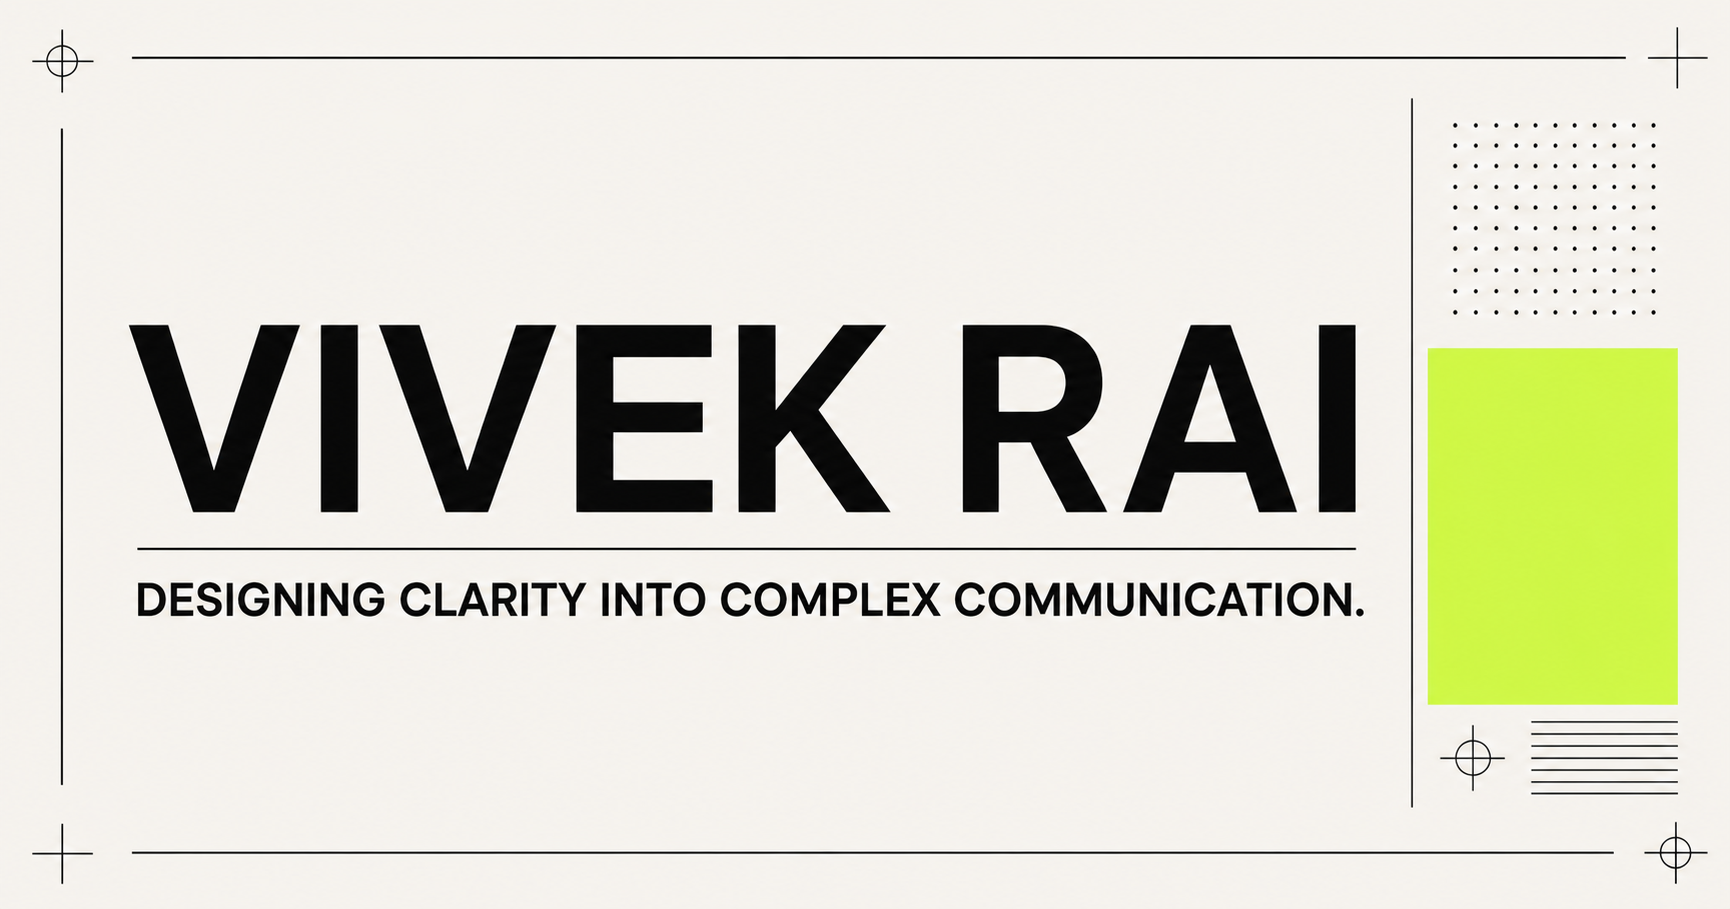
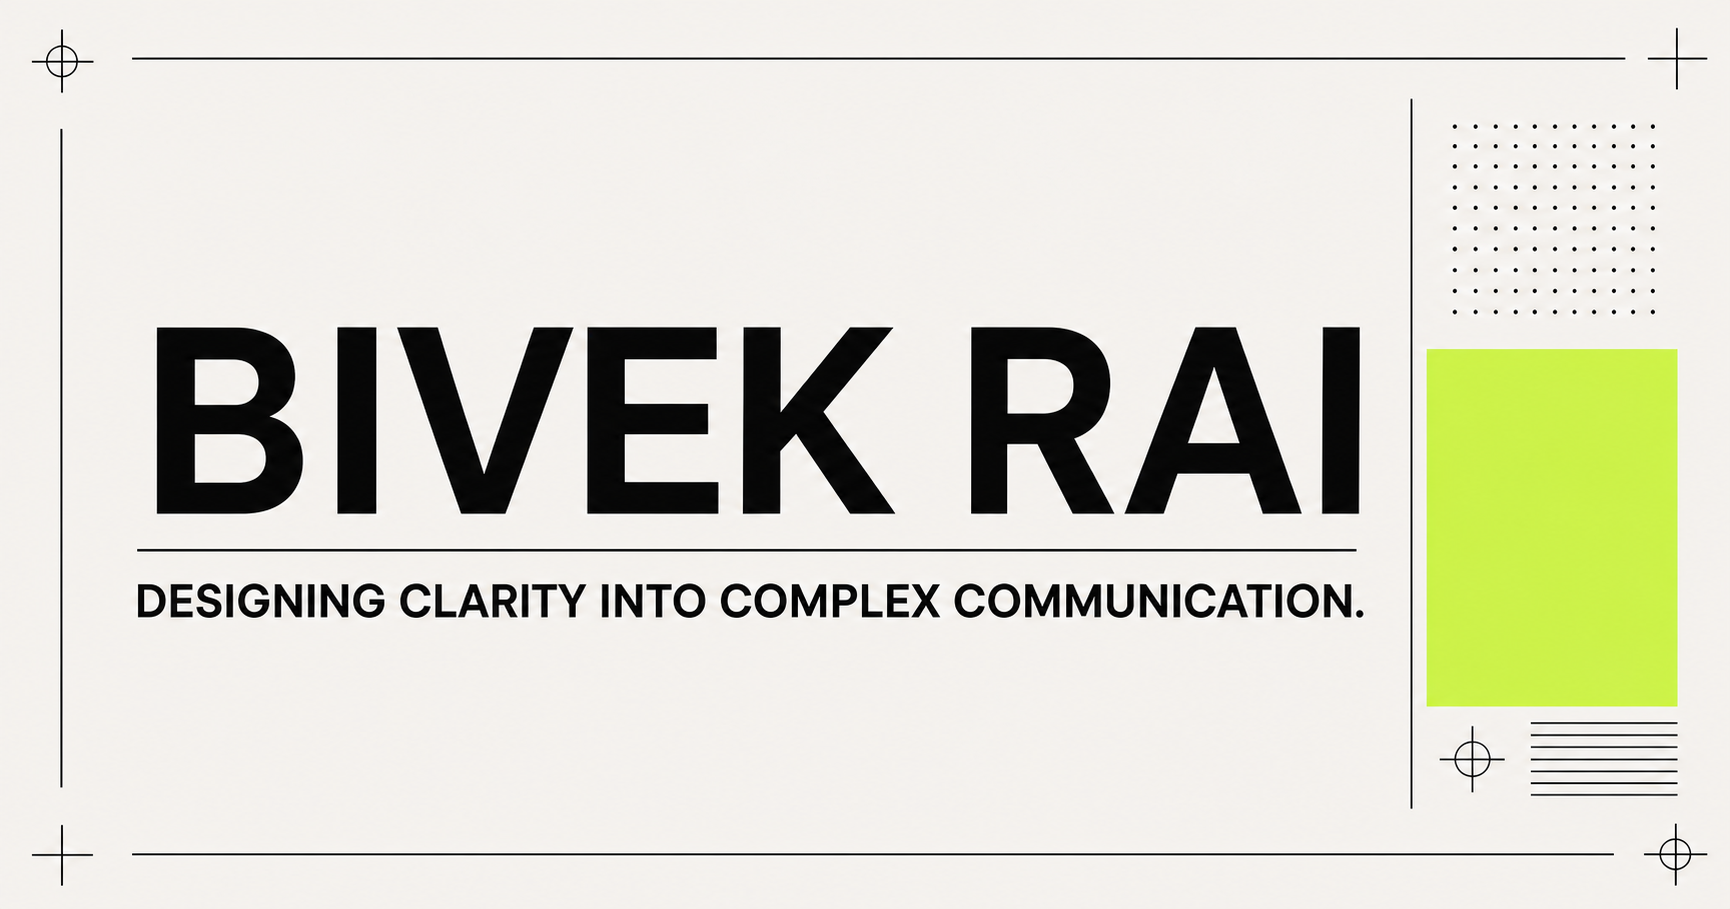
Correct Bivek Rai name throughout portfolio

diff --git a/app/about/page.tsx b/app/about/page.tsx
@@ -3,7 +3,7 @@ import Link from 'next/link';
 import { Footer } from '../components/Footer';
 import { SiteHeader } from '../components/SiteHeader';
 
-export const metadata: Metadata = { title: 'About', description: 'About Vivek Rai, a visual designer with 5+ years of experience in corporate communication and digital design.' };
+export const metadata: Metadata = { title: 'About', description: 'About Bivek Rai, a visual designer with 5+ years of experience in corporate communication and digital design.' };
 
 export default function AboutPage() {
   return <main id="top"><SiteHeader /><section className="about-statement section-pad"><figure className="about-statement__portrait"><img src="/about/bivek-rai.jpeg" alt="Bivek Rai" width={880} height={1280} loading="lazy" decoding="async" /><img className="about-statement__signature" src="/about/signature.png" alt="Bivek Rai signature" width={1920} height={1080} loading="lazy" decoding="async" /></figure><div><h1>About me</h1><p>I’m a Visual Designer with 5+ years of experience, specialising in corporate communication and digital design. My work includes annual reports, sustainability reports, quarterly reports, impact reports, high-end presentations, infographics, branding and marketing collaterals.</p><p>I’ve worked on projects for leading organisations across finance, manufacturing, insurance, healthcare and other industries, transforming complex information into clear, engaging and visually strong communication.</p><p>Alongside graphic design, I’m expanding into UI/UX and web design, using tools such as Figma and AI-powered development platforms to create modern digital experiences.</p><p>I enjoy combining design, storytelling, information hierarchy and technology to create work that is not only visually appealing, but also purposeful and easy to understand.</p></div></section><section className="expertise section-pad"><div className="section-label"><span>Expertise</span><span>Six connected disciplines</span></div>{['Annual & sustainability reports','Quarterly & impact reports','Presentation design','Infographics','Brand & marketing communication','UI/UX & web design'].map((item, index) => <div key={item}><span>0{index + 1}</span><h2>{item}</h2></div>)}</section><section className="about-tools section-pad"><h2>Tools</h2><p>Adobe InDesign · Illustrator · Photoshop · PowerPoint · Figma · After Effects</p><p>HTML · CSS · JavaScript · Next.js · AI-assisted workflows</p></section><section className="inline-cta section-pad"><p>Have a communication challenge?</p><Link href="/contact">Let&apos;s talk →</Link></section><Footer /></main>;

diff --git a/app/contact/page.tsx b/app/contact/page.tsx
@@ -1,8 +1,8 @@
 import type { Metadata } from 'next';
 import { SiteHeader } from '../components/SiteHeader';
 
-export const metadata: Metadata = { title: 'Contact', description: 'Start a report, presentation, brand communication or digital project with Vivek Rai.' };
-const whatsapp = 'https://wa.me/919002166977?text=Hi%20Vivek%2C%20I%20came%20across%20your%20portfolio%20and%20would%20like%20to%20discuss%20a%20design%20project.';
+export const metadata: Metadata = { title: 'Contact', description: 'Start a report, presentation, brand communication or digital project with Bivek Rai.' };
+const whatsapp = 'https://wa.me/919002166977?text=Hi%20Bivek%2C%20I%20came%20across%20your%20portfolio%20and%20would%20like%20to%20discuss%20a%20design%20project.';
 
 export default function ContactPage() {
   return <main className="contact-page" id="top"><SiteHeader light /><section className="contact-layout"><div className="contact-heading"><span>Contact / 03</span><h1>Let&apos;s work<br />together.</h1><p>Have an annual report, presentation, brand communication or digital project? Tell me what you&apos;re working on.</p></div><div className="contact-options"><div className="contact-status"><i /> Available for selected projects</div><a href="mailto:vibekchamling@gmail.com" data-cursor="OPEN ↗"><span>Write an email</span><strong>vibekchamling@gmail.com</strong><b>↗</b></a><a href={whatsapp} target="_blank" rel="noreferrer" data-cursor="OPEN ↗"><span>WhatsApp &amp; Mobile</span><strong>+91 90021 66977</strong><b>↗</b></a><a href="https://www.linkedin.com/in/bivek-rai-054503260/" target="_blank" rel="noreferrer" data-cursor="OPEN ↗"><span>Connect professionally</span><strong>LinkedIn</strong><b>↗</b></a><div className="contact-meta"><span>Mumbai, India</span><span>Available for remote projects</span></div></div></section></main>;

diff --git a/app/layout.tsx b/app/layout.tsx
@@ -9,12 +9,12 @@ const geistMono = Geist_Mono({ variable: '--font-geist-mono', subsets: ['latin']
 
 export const metadata: Metadata = {
   metadataBase: new URL(siteUrl),
-  title: { default: 'Vivek Rai | Visual Designer', template: '%s | Vivek Rai' },
+  title: { default: 'Bivek Rai | Visual Designer', template: '%s | Bivek Rai' },
   description: 'Visual designer specialising in reports, presentations, brand communication and digital experiences.',
   keywords: ['visual designer', 'report designer', 'presentation designer', 'corporate communication', 'Mumbai'],
   alternates: { canonical: '/' },
-  openGraph: { title: 'Vivek Rai | Visual Designer', description: 'Designing clarity into complex communication.', type: 'website', url: siteUrl, siteName: 'Vivek Rai', images: [{ url: `${siteUrl}/og.png`, width: 1200, height: 630, alt: 'Vivek Rai | Designing clarity into complex communication.' }] },
-  twitter: { card: 'summary_large_image', title: 'Vivek Rai | Visual Designer', description: 'Designing clarity into complex communication.', images: [`${siteUrl}/og.png`] },
+  openGraph: { title: 'Bivek Rai | Visual Designer', description: 'Designing clarity into complex communication.', type: 'website', url: siteUrl, siteName: 'Bivek Rai', images: [{ url: `${siteUrl}/og.png`, width: 1200, height: 630, alt: 'Bivek Rai | Designing clarity into complex communication.' }] },
+  twitter: { card: 'summary_large_image', title: 'Bivek Rai | Visual Designer', description: 'Designing clarity into complex communication.', images: [`${siteUrl}/og.png`] },
 };
 
 export default function RootLayout({ children }: Readonly<{ children: React.ReactNode }>) {

diff --git a/app/components/Footer.tsx b/app/components/Footer.tsx
@@ -8,9 +8,9 @@ export function Footer() {
       <div className="footer-links">
         <a href="mailto:vibekchamling@gmail.com">Email ↗</a>
         <a href="https://www.linkedin.com/in/bivek-rai-054503260/" target="_blank" rel="noreferrer">LinkedIn ↗</a>
-        <a href="https://wa.me/919002166977?text=Hi%20Vivek%2C%20I%20came%20across%20your%20portfolio%20and%20would%20like%20to%20discuss%20a%20design%20project." target="_blank" rel="noreferrer">WhatsApp ↗</a>
+        <a href="https://wa.me/919002166977?text=Hi%20Bivek%2C%20I%20came%20across%20your%20portfolio%20and%20would%20like%20to%20discuss%20a%20design%20project." target="_blank" rel="noreferrer">WhatsApp ↗</a>
       </div>
-      <div className="footer-base"><span>© 2026 Vivek Rai</span><span>Visual designer · Mumbai</span><a href="#top">Back to top ↑</a></div>
+      <div className="footer-base"><span>© 2026 Bivek Rai</span><span>Visual designer · Mumbai</span><a href="#top">Back to top ↑</a></div>
     </footer>
   );
 }

diff --git a/app/work/page.tsx b/app/work/page.tsx
@@ -4,7 +4,7 @@ import { SiteHeader } from '../components/SiteHeader';
 import { WorkArchive } from '../components/WorkArchive';
 import { projects } from '../data/projects';
 
-export const metadata: Metadata = { title: 'Selected Work', description: 'Reports, presentations, identities and digital experiences by visual designer Vivek Rai.' };
+export const metadata: Metadata = { title: 'Selected Work', description: 'Reports, presentations, identities and digital experiences by visual designer Bivek Rai.' };
 
 export default function WorkPage() {
   return <main id="top" className="work-page"><div className="work-geometry" aria-hidden="true"><i /><i /><i /></div><SiteHeader /><header className="page-hero"><span>Work / 01</span><h1>Selected<br />Work.</h1><p>Reports, presentations, identities and digital experiences created to make complex communication clearer.</p></header><WorkArchive projects={projects} /><Footer /></main>;
